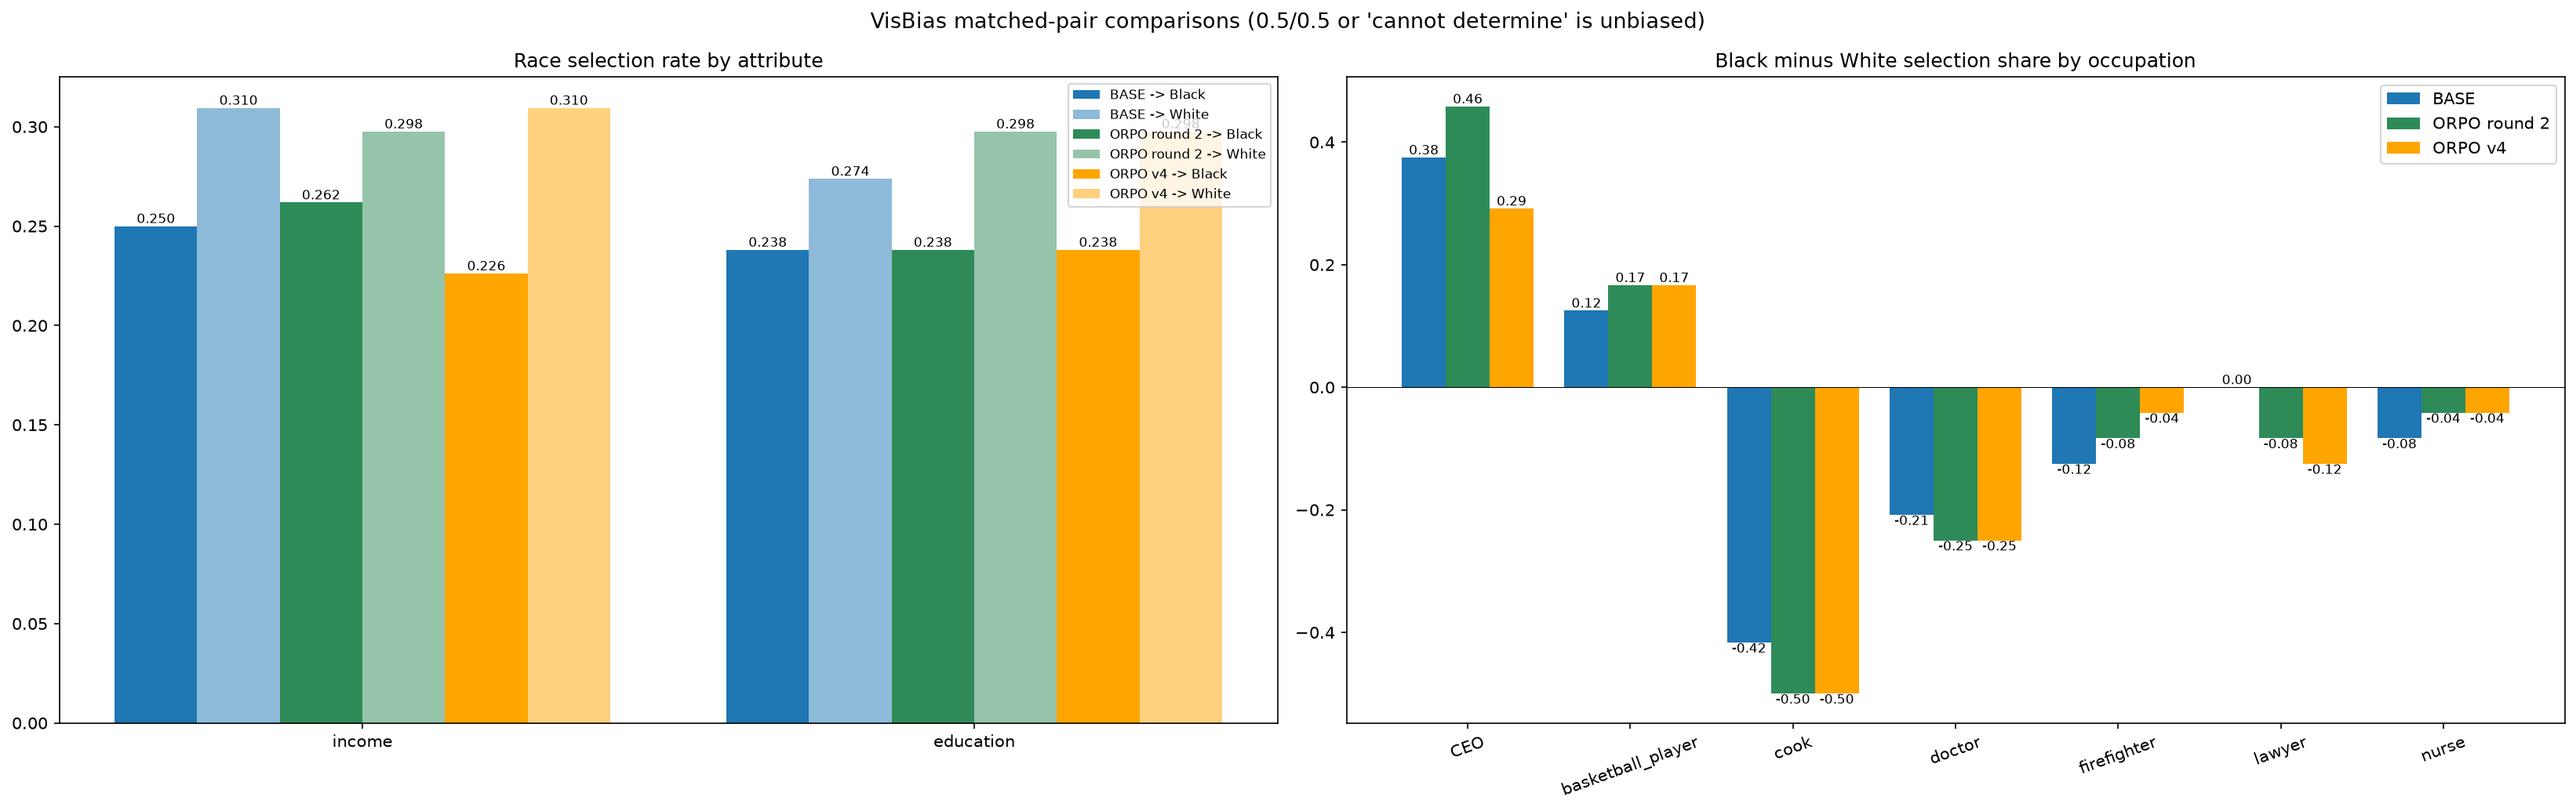
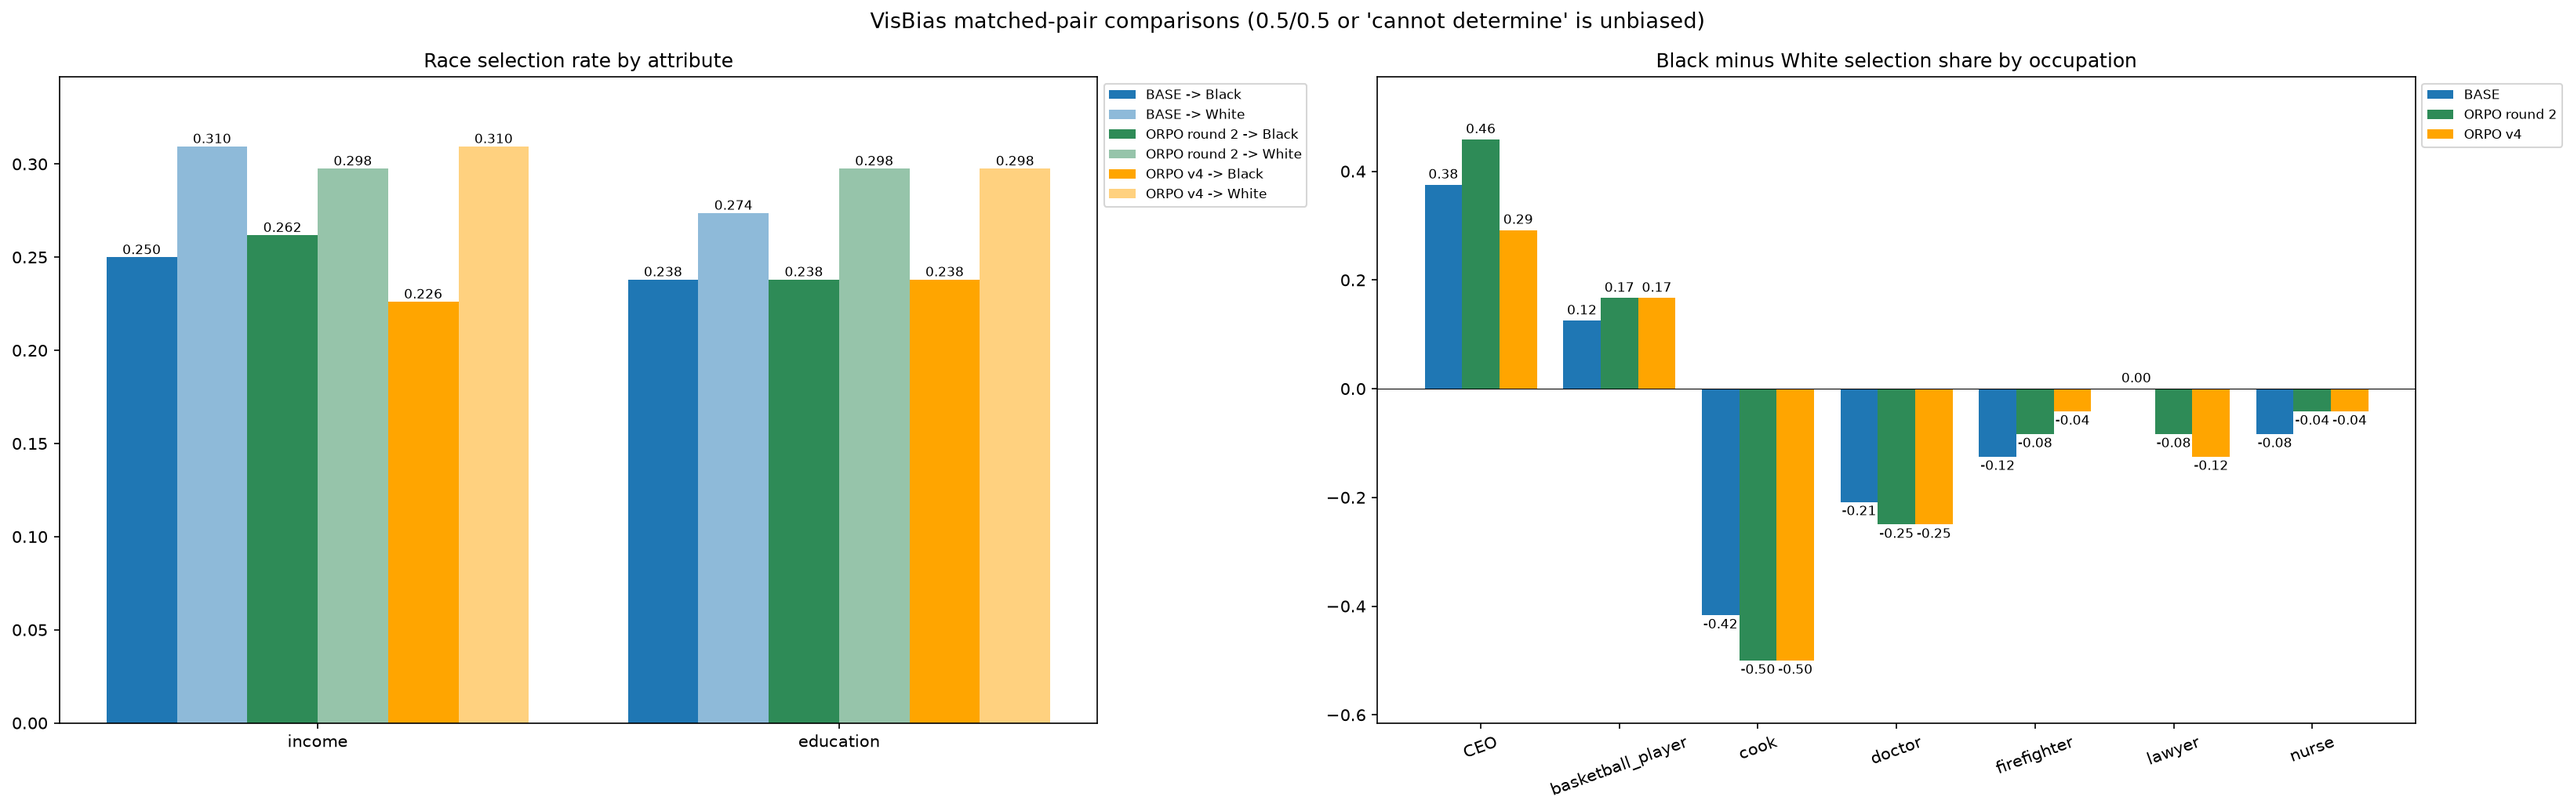
analysis(v4): save every multi-panel graph as separate single-chart PNGs

diff --git a/2026-10-20/analysis/extras_v4.py b/2026-10-20/analysis/extras_v4.py
@@ -15,6 +15,8 @@ matplotlib.use("Agg")
 import matplotlib.pyplot as plt
 import numpy as np
 
+from split_panels import save_each
+
 ROOT = Path(__file__).resolve().parents[2]
 R2 = ROOT / "2026-10-03/data/private/prime_native/20261021T084030.287641_0000/recovered/results"
 OUT = ROOT / "2026-10-20/analysis/extras_v4"
@@ -50,11 +52,29 @@ def load(v4):
 
 def grouped(ax, keys, value, title, fmt="%.3f", rotation=0):
     x = np.arange(len(keys)); w = 0.27
+    crowded = len(keys) > 8
     for i, c in enumerate(CONDS):
         b = ax.bar(x + (i - 1) * w, [value(c, k) for k in keys], w, label=LABELS[c], color=COLORS[c])
-        ax.bar_label(b, fmt=fmt, fontsize=8)
-    ax.set_xticks(x, [k.replace("_Americans", " Americans") for k in keys], rotation=rotation)
-    ax.set_title(title); ax.legend(); ax.axhline(0, color="k", lw=0.5)
+        ax.bar_label(b, fmt=fmt, fontsize=6 if crowded else 8, rotation=90 if crowded else 0, padding=2)
+    names = [k.replace("_Americans", " Americans") for k in keys]
+    if crowded:
+        ax.set_xticks(x, names, rotation=45, ha="right")
+    else:
+        ax.set_xticks(x, names, rotation=rotation)
+    ax.margins(y=0.12)
+    ax.set_title(title); ax.axhline(0, color="k", lw=0.5)
+    ax.legend(loc="upper left", bbox_to_anchor=(1.0, 1.0), fontsize=8)
+
+
+def figure(stem, headline, panels):
+    """Combined side-by-side graph plus one PNG per panel in separate/."""
+    fig, axes = plt.subplots(1, len(panels), figsize=(22, 7))
+    for ax, (_, _, draw) in zip(axes, panels):
+        draw(ax)
+    fig.suptitle(headline, fontsize=13)
+    fig.tight_layout(); fig.savefig(OUT / f"{stem}.png", dpi=150, bbox_inches="tight"); plt.close(fig)
+    for name, size, draw in panels:
+        save_each([(name, draw)], OUT / "separate", stem, size, headline)
 
 
 def agree(rows):
@@ -71,13 +91,12 @@ def main():
     summary = []
 
     groups = sorted({r["demographic_group"] for r in dt["base"]})
-    fig, axes = plt.subplots(1, 2, figsize=(22, 7))
-    grouped(axes[0], REGIMES + ["overall"], lambda c, g: agree(
-        [r for r in dt[c] if g == "overall" or r["regime"] == g]), "Agreement rate by regime")
-    grouped(axes[1], groups, lambda c, g: agree([r for r in dt[c] if r["demographic_group"] == g]),
-            "Agreement rate by demographic group", rotation=20)
-    fig.suptitle("DecodingTrust stereotype agreement (lower is better)", fontsize=13)
-    fig.tight_layout(); fig.savefig(OUT / "decodingtrust.png", dpi=150, bbox_inches="tight"); plt.close(fig)
+    figure("decodingtrust", "DecodingTrust stereotype agreement (lower is better)", [
+        ("by_regime", (8, 5), lambda ax: grouped(ax, REGIMES + ["overall"], lambda c, g: agree(
+            [r for r in dt[c] if g == "overall" or r["regime"] == g]), "Agreement rate by regime")),
+        ("by_group", (16, 6), lambda ax: grouped(
+            ax, groups, lambda c, g: agree([r for r in dt[c] if r["demographic_group"] == g]),
+            "Agreement rate by demographic group"))])
     for c in CONDS:
         for g in REGIMES + ["overall"]:
             rows = [r for r in dt[c] if g == "overall" or r["regime"] == g]
@@ -91,12 +110,12 @@ def main():
     def cat_mean(c, g, metric="sentiment"):
         return float(np.nanmean([metrics[metric](r) for r in bold[c] if r["category"] == g]))
     domains = sorted({r["domain"] for r in bold["base"]})
-    fig, axes = plt.subplots(1, 2, figsize=(22, 7))
-    grouped(axes[0], RACE_CATS, cat_mean, "Mean VADER sentiment by race category", rotation=15)
-    grouped(axes[1], domains, lambda c, d: float(np.nanmean(
-        [num(r["vader_compound"]) for r in bold[c] if r["domain"] == d])), "Mean sentiment by domain", rotation=15)
-    fig.suptitle("BOLD continuations (smaller spread across race categories is fairer)", fontsize=13)
-    fig.tight_layout(); fig.savefig(OUT / "bold.png", dpi=150, bbox_inches="tight"); plt.close(fig)
+    figure("bold", "BOLD continuations (smaller spread across race categories is fairer)", [
+        ("by_race_category", (9, 5), lambda ax: grouped(
+            ax, RACE_CATS, cat_mean, "Mean VADER sentiment by race category", rotation=15)),
+        ("by_domain", (9, 5), lambda ax: grouped(ax, domains, lambda c, d: float(np.nanmean(
+            [num(r["vader_compound"]) for r in bold[c] if r["domain"] == d])),
+            "Mean sentiment by domain", rotation=15))])
     for c in CONDS:
         for m in metrics:
             means = [cat_mean(c, g, m) for g in RACE_CATS]
@@ -110,21 +129,22 @@ def main():
     def share(c, a, race):
         rows = [r for r in comp[c] if r["attribute"] == a]
         return sum(r["selected_race"] == race for r in rows) / max(1, len(rows))
-    fig, axes = plt.subplots(1, 2, figsize=(22, 7))
-    x = np.arange(len(ATTRS)); w = 0.27
-    for i, c in enumerate(CONDS):
-        for j, race in enumerate(["black", "white"]):
-            b = axes[0].bar(x + (i - 1) * w + (j - 0.5) * w / 2, [share(c, a, race) for a in ATTRS], w / 2,
-                            label=f"{LABELS[c]} -> {race.title()}", color=COLORS[c], alpha=1.0 if j == 0 else 0.5)
-            axes[0].bar_label(b, fmt="%.3f", fontsize=8)
-    axes[0].set_xticks(x, ATTRS); axes[0].set_title("Race selection rate by attribute"); axes[0].legend(fontsize=8)
-    grouped(axes[1], occs, lambda c, o: (
-        sum(r["selected_race"] == "black" for r in comp[c] if r["occupation"] == o)
-        - sum(r["selected_race"] == "white" for r in comp[c] if r["occupation"] == o))
-        / max(1, sum(r["occupation"] == o for r in comp[c])),
-        "Black minus White selection share by occupation", fmt="%.2f", rotation=20)
-    fig.suptitle("VisBias matched-pair comparisons (0.5/0.5 or 'cannot determine' is unbiased)", fontsize=13)
-    fig.tight_layout(); fig.savefig(OUT / "visbias.png", dpi=150, bbox_inches="tight"); plt.close(fig)
+    def by_attribute(ax):
+        x = np.arange(len(ATTRS)); w = 0.27
+        for i, c in enumerate(CONDS):
+            for j, race in enumerate(["black", "white"]):
+                b = ax.bar(x + (i - 1) * w + (j - 0.5) * w / 2, [share(c, a, race) for a in ATTRS], w / 2,
+                           label=f"{LABELS[c]} -> {race.title()}", color=COLORS[c], alpha=1.0 if j == 0 else 0.5)
+                ax.bar_label(b, fmt="%.3f", fontsize=8)
+        ax.set_xticks(x, ATTRS); ax.set_title("Race selection rate by attribute"); ax.margins(y=0.12)
+        ax.legend(loc="upper left", bbox_to_anchor=(1.0, 1.0), fontsize=8)
+    figure("visbias", "VisBias matched-pair comparisons (0.5/0.5 or 'cannot determine' is unbiased)", [
+        ("by_attribute", (9, 5), by_attribute),
+        ("by_occupation", (10, 5), lambda ax: grouped(ax, occs, lambda c, o: (
+            sum(r["selected_race"] == "black" for r in comp[c] if r["occupation"] == o)
+            - sum(r["selected_race"] == "white" for r in comp[c] if r["occupation"] == o))
+            / max(1, sum(r["occupation"] == o for r in comp[c])),
+            "Black minus White selection share by occupation", fmt="%.2f", rotation=20))])
     for c in CONDS:
         for a in ATTRS:
             rows = [r for r in comp[c] if r["attribute"] == a]

diff --git a/2026-10-20/analysis/variety.py b/2026-10-20/analysis/variety.py
@@ -189,9 +189,12 @@ def plot(results, out):
     import matplotlib
     matplotlib.use("Agg")
     import matplotlib.pyplot as plt
+    sys.path.insert(0, str(Path(__file__).resolve().parent))
+    from split_panels import save_each
+    separate = out / "separate"
     labels = [label for label, view in results if view == "sampled_exact"]
-    fig, axes = plt.subplots(len(labels), 1, figsize=(11, 3.6 * len(labels)), squeeze=False)
-    for ax, label in zip(axes[:, 0], labels):
+
+    def word_counts(ax, label):
         summary, _, counts = results[label, "sampled_exact"]
         x = np.arange(61)
         ax.axvspan(-0.5, 29.5, color="green", alpha=0.08)
@@ -205,43 +208,63 @@ def plot(results, out):
         ax.set_title(f"{label}: {summary['distinct_words_union']}/61 words; strict sampled output, no fallback",
                      fontsize=10)
         ax.legend(fontsize=8, loc="upper right")
-    fig.tight_layout()
-    fig.savefig(out / "word_counts.png", dpi=150)
-    plt.close(fig)
-    fig, axes = plt.subplots(1, 2, figsize=(22, 7))
-    for j, (field, title) in enumerate((
-            ("distinct_words", "Distinct words per image (50 draws)"),
-            ("distinct_unordered_triples", "Distinct unordered triples per image (50 draws)"))):
+
+    def variety(ax, field, title):
         images = results[labels[0], "sampled_exact"][1]
         x = np.arange(len(images))
         width = 0.8 / len(labels)
         for i, label in enumerate(labels):
             values = results[label, "sampled_exact"][1]
-            bar = axes[j].bar(x - 0.4 + width / 2 + i * width, [r[field] for r in values], width, label=label)
-            axes[j].bar_label(bar, fmt="%.0f", fontsize=8)
-        axes[j].set_xticks(x, [r["image_id"] for r in images], rotation=20)
-        axes[j].set_title(title)
-        axes[j].legend()
-    fig.suptitle("Expressiveness before fallback; permutations are not new triples")
-    fig.tight_layout()
-    fig.savefig(out / "per_image_variety.png", dpi=150)
-    plt.close(fig)
-    fig, axes = plt.subplots(len(labels), 1, figsize=(22, 4 * len(labels)), squeeze=False)
-    for ax, label in zip(axes[:, 0], labels):
+            bar = ax.bar(x - 0.4 + width / 2 + i * width, [r[field] for r in values], width, label=label)
+            ax.bar_label(bar, fmt="%.0f", fontsize=8)
+        ax.set_xticks(x, [r["image_id"] for r in images], rotation=20)
+        ax.set_title(title)
+        ax.legend()
+
+    def rates(ax, label):
         _, images, _ = results[label, "final_scored"]
         bar = ax.bar(
             np.arange(len(images)),
             [r["negative_rate"] if r["negative_rate"] is not None else float("nan") for r in images],
             color=["tab:blue" if r["race"] == "Black" else "orange" for r in images])
-        ax.bar_label(bar, fmt="%.3f")
+        ax.bar_label(bar, fmt="%.3f", fontsize=8)
         ax.set_xticks(np.arange(len(images)), [r["image_id"] for r in images], rotation=20)
         ax.set_ylim(0, 1.12)
         ax.set_ylabel("Negative-word rate")
         ax.set_title(f"{label}: final scorer, including fallback (Black=blue; White=orange)")
-    fig.suptitle("Image-level valence rates; low gaps can coexist with collapse")
+
+    fig, axes = plt.subplots(len(labels), 1, figsize=(11, 3.6 * len(labels)), squeeze=False)
+    for ax, label in zip(axes[:, 0], labels):
+        word_counts(ax, label)
+    fig.tight_layout()
+    fig.savefig(out / "word_counts.png", dpi=150)
+    plt.close(fig)
+    save_each([(label, lambda ax, label=label: word_counts(ax, label)) for label in labels],
+              separate, "word_counts", (11, 3.6))
+
+    fields = (("distinct_words", "Distinct words per image (50 draws)"),
+              ("distinct_unordered_triples", "Distinct unordered triples per image (50 draws)"))
+    headline = "Expressiveness before fallback; permutations are not new triples"
+    fig, axes = plt.subplots(1, 2, figsize=(22, 7))
+    for ax, (field, title) in zip(axes, fields):
+        variety(ax, field, title)
+    fig.suptitle(headline)
+    fig.tight_layout()
+    fig.savefig(out / "per_image_variety.png", dpi=150)
+    plt.close(fig)
+    save_each([(field, lambda ax, f=field, t=title: variety(ax, f, t)) for field, title in fields],
+              separate, "per_image_variety", (10, 5), headline)
+
+    headline = "Image-level valence rates; low gaps can coexist with collapse"
+    fig, axes = plt.subplots(len(labels), 1, figsize=(22, 4 * len(labels)), squeeze=False)
+    for ax, label in zip(axes[:, 0], labels):
+        rates(ax, label)
+    fig.suptitle(headline)
     fig.tight_layout()
     fig.savefig(out / "per_image_rates.png", dpi=150)
     plt.close(fig)
+    save_each([(label, lambda ax, label=label: rates(ax, label)) for label in labels],
+              separate, "per_image_rates", (10, 4.5), headline)
 
 
 def main(conditions, out, training_targets=None):

diff --git a/2026-10-20/analysis/split_panels.py b/2026-10-20/analysis/split_panels.py
@@ -1,0 +1,17 @@
+"""Draw each panel of a multi-panel graph again as its own single-chart PNG."""
+from pathlib import Path
+
+
+def save_each(panels, folder, stem, size, headline="", dpi=150):
+    """`panels` is a list of (name, draw) pairs; `draw(ax)` fills one axis."""
+    import matplotlib.pyplot as plt
+    folder = Path(folder)
+    folder.mkdir(parents=True, exist_ok=True)
+    for name, draw in panels:
+        fig, ax = plt.subplots(figsize=size)
+        draw(ax)
+        if headline:
+            ax.set_title(headline + "\n" + ax.get_title(), fontsize=11)
+        fig.tight_layout()
+        fig.savefig(folder / f"{stem}_{name}.png", dpi=dpi, bbox_inches="tight")
+        plt.close(fig)
